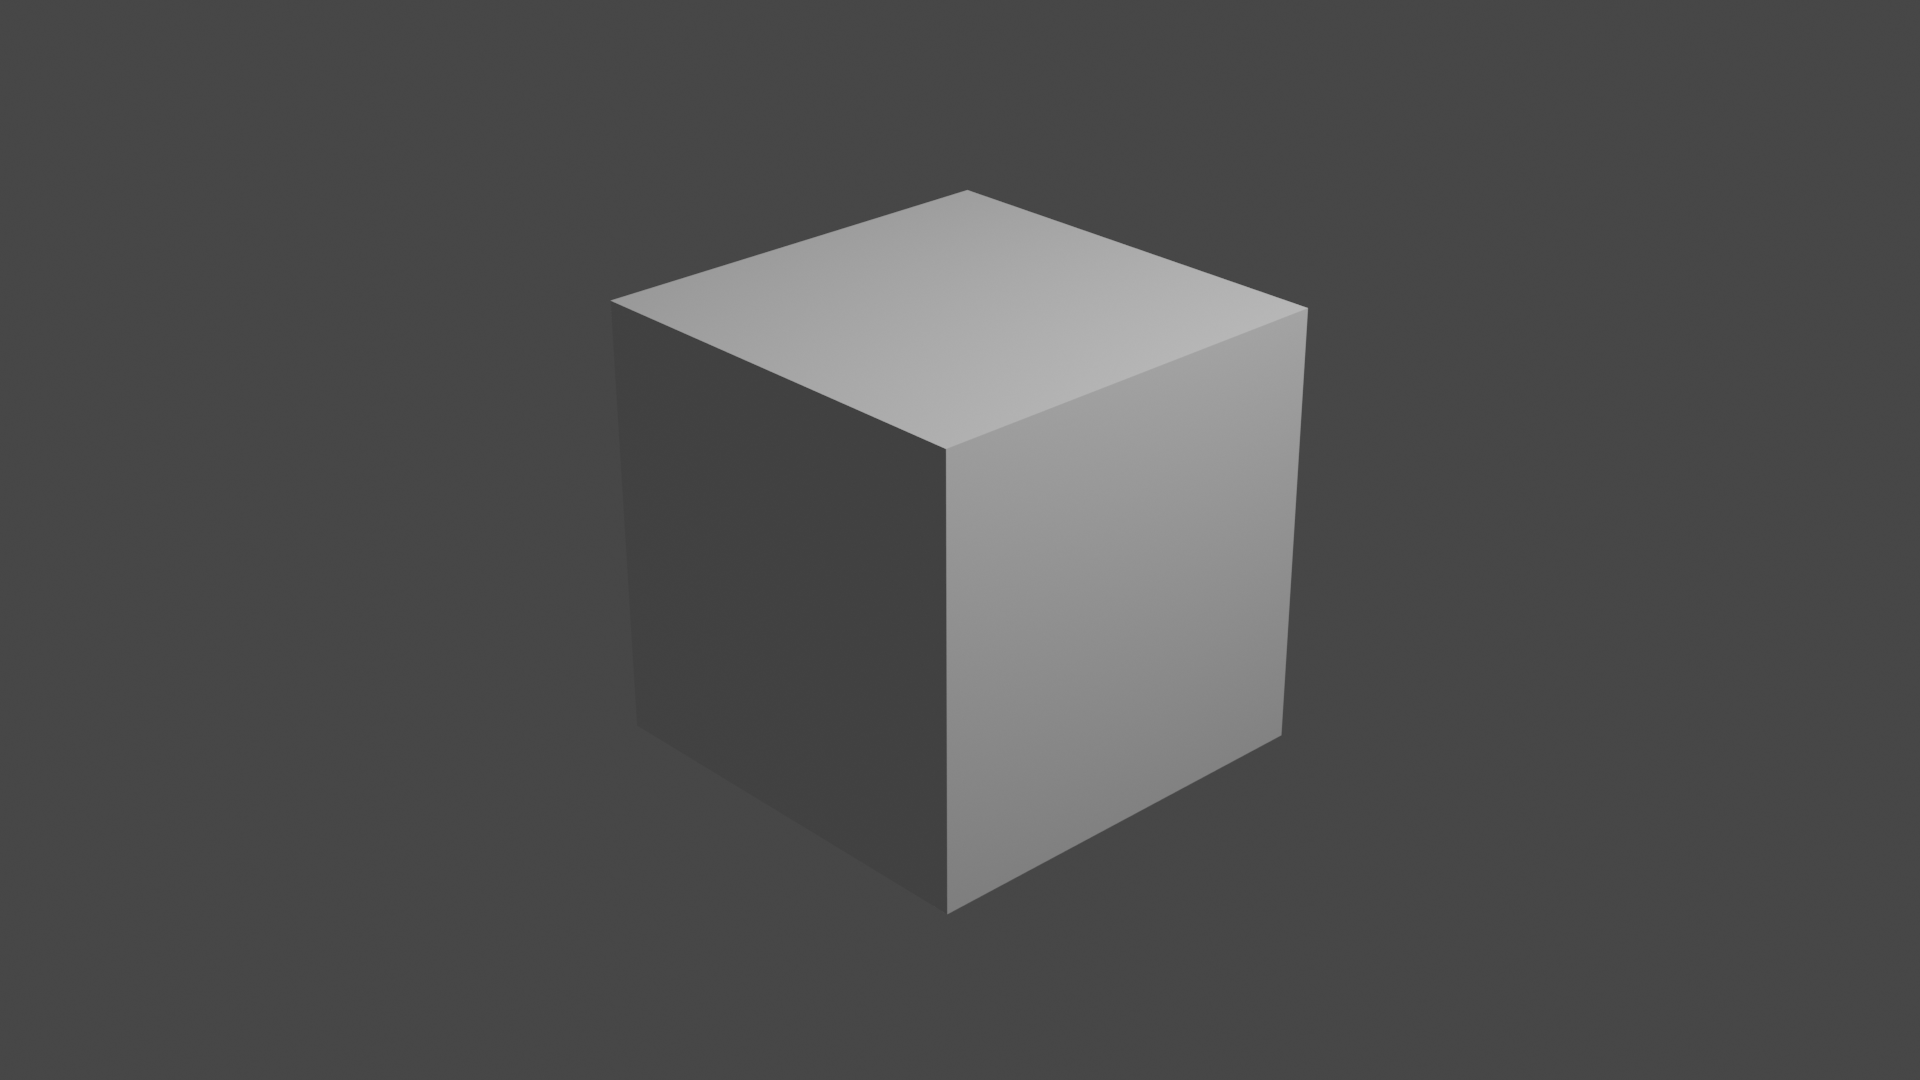
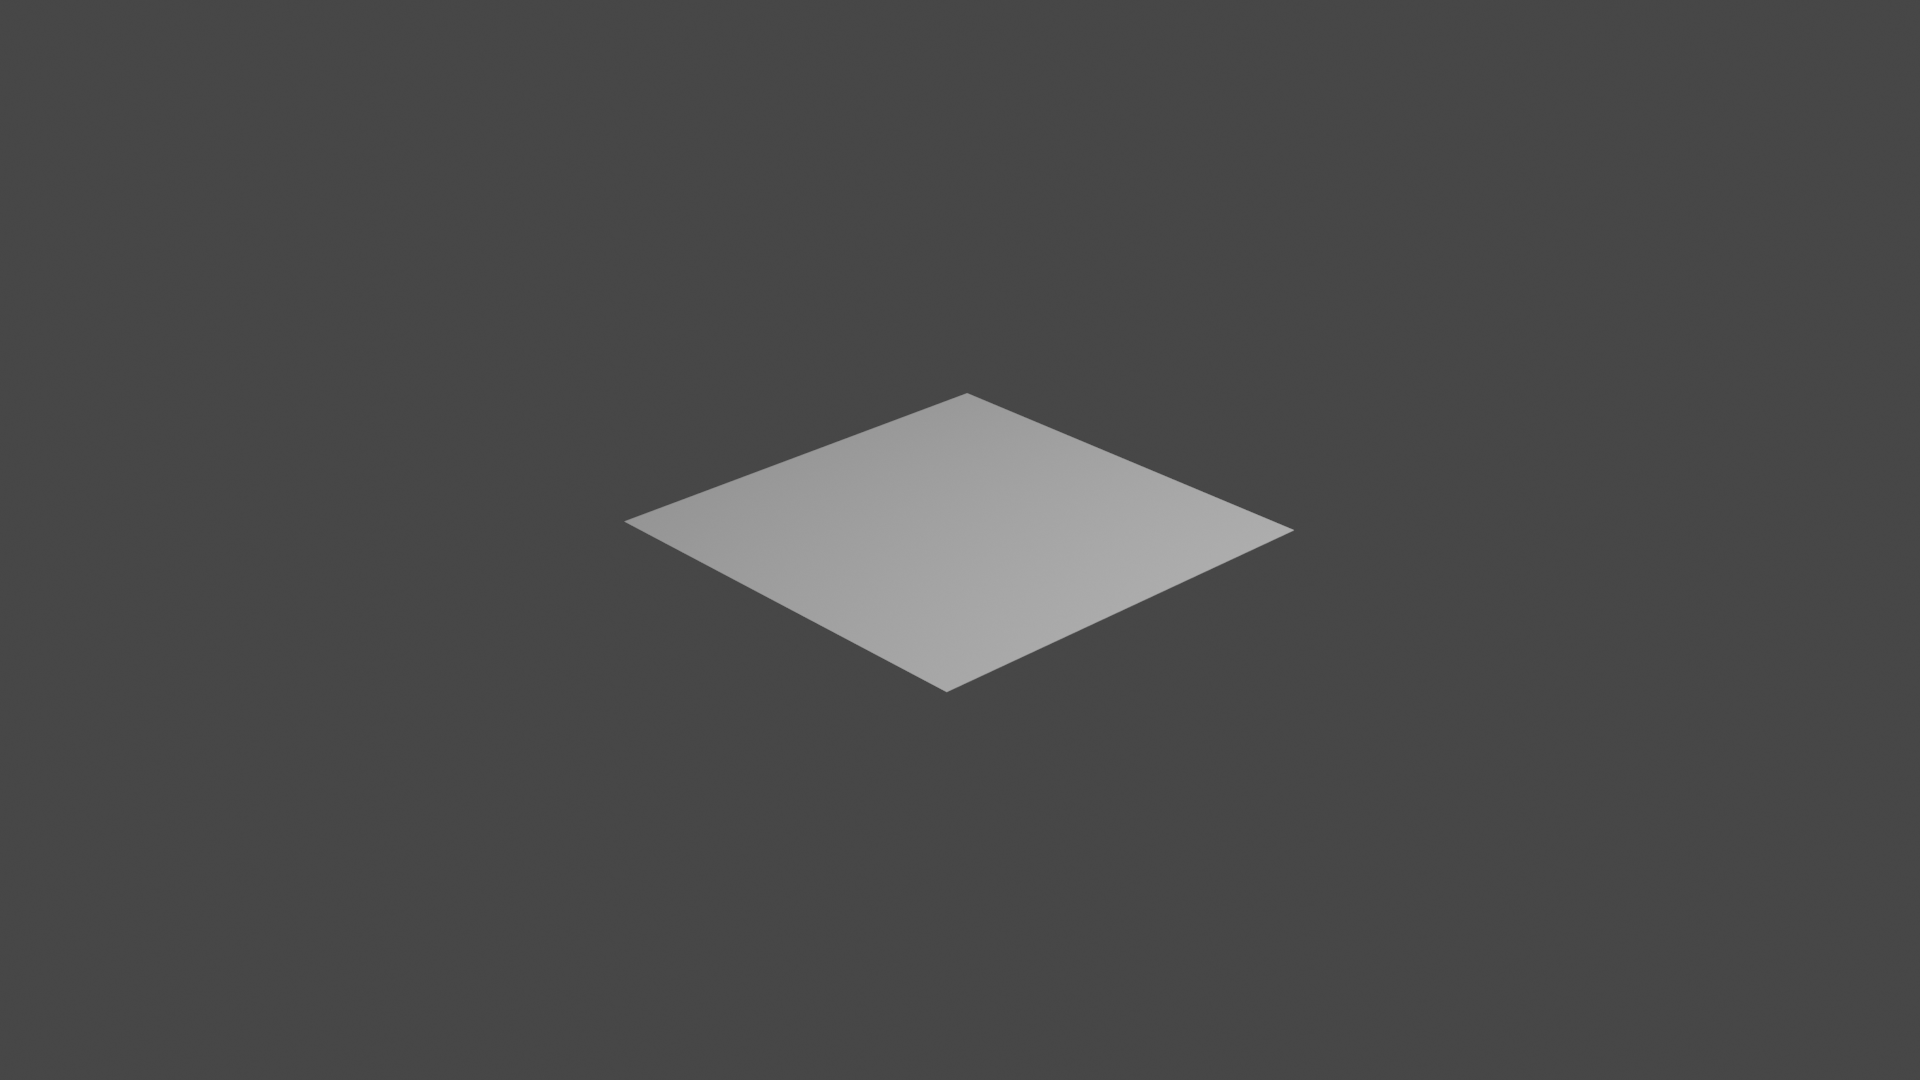
backup

Changed region(s): [[0.3125, 0.1833, 0.6875, 0.8556]]

diff --git a/bl_test/object_to_screen_contour.py b/bl_test/object_to_screen_contour.py
@@ -1,4 +1,14 @@
+import sys
+
+sys.path.append(
+    "C:\\Users\\Narinder\\AppData\\Roaming\\Python\\Python39\\site-packages\\")
+
+sys.path.append(
+    "C:\\Users\\Narinder\\AppData\\local\\programs\\python\\python39\\lib\\site-packages\\")
+
 import bpy
+import os
+import cv2
 import bmesh
 from typing import List, Union, Tuple
 
@@ -46,31 +56,31 @@ def add_evaled_mesh(bm, dg: bpy.types.Depsgraph, obj: bpy.types.Object, to_world
     object_eval.to_mesh_clear()
     return None
 
-def tocam(scene, obs):
+def project_mesh_on_camera(obj):
     cam = scene.camera
     cam_vec = cam.matrix_world.to_3x3() @ Vector((0, 0, -1))
+
     R = cam_vec.to_track_quat('-Z', 'Y').to_matrix().to_4x4()
 
-    s = Vector((1, (scene.render.resolution_y / scene.render.resolution_x), 1, 1))
-    S = Matrix.Diagonal(s)
+    S = Matrix.Diagonal(
+        Vector((1, (scene.render.resolution_y / scene.render.resolution_x), 1, 1)))
 
     T = Matrix.Translation((-0.5, -0.5, 0))
 
-    for ob in obs:
-        ob.data.transform(ob.matrix_world)
-        ob.matrix_world = Matrix()
-        for v in ob.data.vertices:
-            vec = w2cv(scene, cam, v.co)
-            v.co = vec.x, vec.y, 0
+    obj.data.transform(obj.matrix_world)
+    obj.matrix_world = Matrix()
+    for v in obj.data.vertices:
+        vec = w2cv(scene, cam, v.co)
+        v.co = vec.x, vec.y, 0
 
-        ob.data.transform(S @ T)
+    obj.data.transform(S @ T)
+    obj.matrix_world = R
 
-        ob.matrix_world = R
-        angle_x = cam.data.angle_x
-        x = (0.5 / tan(angle_x / 2)) * cam_vec.normalized()
-        ob.matrix_world.translation = cam.matrix_world.translation + x
+    angle_x = cam.data.angle_x
+    x = (0.5 / tan(angle_x / 2)) * cam_vec.normalized()
+    obj.matrix_world.translation = cam.matrix_world.translation + x
 
-def drawMesh(face_sets, context) :
+def drawMesh(face_sets) :
     cam = context.scene.camera
     cam_vec = cam.matrix_world.to_3x3() @ Vector((0, 0, -1))
     R = cam_vec.to_track_quat('-Z', 'Y').to_matrix().to_4x4()
@@ -98,8 +108,6 @@ def drawMesh(face_sets, context) :
     x = (0.5 / tan(angle_x / 2)) * cam_vec.normalized()
     obj.matrix_world.translation = cam.matrix_world.translation + x
 
-    new_collection = bpy.data.collections.new('coll')
-    bpy.context.scene.collection.children.link(new_collection)
     new_collection.objects.link(obj)
 
 def drawPoly(merged) :
@@ -131,57 +139,86 @@ def drawPoly(merged) :
 
     new_collection.objects.link(obj)
 
-def get_flattened_faces(context, obj) -> List[List[Vector]]:
-    dg = context.evaluated_depsgraph_get()
-    bm = bmesh.new()
+    return obj
 
-    add_evaled_mesh(bm, dg, obj, True)
+def get_face_sets(obj) -> List[List[Vector]]:
+    dg = context.evaluated_depsgraph_get()
+    bmesh_ = bmesh.new()
+
+    add_evaled_mesh(bmesh_, dg, obj, True)
 
     faces = []
-    for face in bm.faces:
+    for face in bmesh_.faces:
         face_points = [obj.matrix_world.inverted() @ vert.co for vert in face.verts]
         face_points = [point.to_2d() for point in face_points]
         faces.append(face_points)
-    bm.free()
+    bmesh_.free()
 
     return faces
-    
-def execute(context: bpy.types.Context): 
-    valid_target_types = ["MESH","SURFACE","CURVE","META","FONT"]
-    targets = [o for o in context.selected_objects if o.type in valid_target_types]
+
+
+def duplicate(obj, data=True, actions=True, collection=None):
+    obj_copy = obj.copy()
+    if data:
+        obj_copy.data = obj_copy.data.copy()
+    if actions and obj_copy.animation_data:
+        obj_copy.animation_data.action = obj_copy.animation_data.action.copy()
+    collection.objects.link(obj_copy)
+    return obj_copy
+
+def renderImage(file):
+    path = os.path.join(os.getcwd(), (file % count))
+    scene = bpy.data.scenes[0]
+    render = scene.render
+    render.filepath = path
+    render.image_settings.file_format = "PNG"
+    render.image_settings.compression = 15
+    print("Rendering image:", file)
+    print("Render Engine:", render.engine)
+    bpy.ops.render.render(write_still=True)
+
+def run(): 
+    file = 'realistic%d.png'
+    renderImage(file)
+
+    types = ["MESH","SURFACE"]
+    targets = [o for o in context.selected_objects if o.type in types]
 
     if not isinstance(targets, list):
         targets = [targets]
 
     if not targets:
-        print("No valid targets selected")
+        print("Select mesh or surface")
         return
 
-    bpy.ops.object.duplicate()
-    print(bpy.context.active_object)
+    obj = targets[0]
+    obj.select_set(False)
+    obj_copy = duplicate(obj=obj, data=True, actions=True, collection=new_collection)
+    obj_copy.select_set(True)
 
-    tocam(context.scene, context.selected_objects)
+    project_mesh_on_camera(obj_copy)
 
-    for obj in targets:
-        face_sets = [get_flattened_faces(context, obj)]
-        poly_sets = [faces_to_polygons(face_set) for face_set in face_sets]
+    face_sets = [get_face_sets(obj_copy)]
+    poly_sets = [faces_to_polygons(face_set) for face_set in face_sets]
 
-        with ThreadPoolExecutor() as executor:
-            buffer = 0.00001
-            merged_sets = executor.map(poly_union, poly_sets, repeat(buffer))
+    with ThreadPoolExecutor() as executor:
+        buffer = 0.00001
+        merged_sets = executor.map(poly_union, poly_sets, repeat(buffer))
 
-        merged = list(chain.from_iterable(merged_sets))
+    merged = list(chain.from_iterable(merged_sets))
 
-        drawPoly(merged)
+    objs = bpy.data.objects
+    objs.remove(obj_copy, do_unlink=True)
+
+    obj_outline = drawPoly(merged)
 
 context = bpy.context
 scene = context.scene
 
-new_collection = bpy.data.collections.new('coll')
+count = 0
+
+new_collection = bpy.data.collections.new('temp_Collection')
 bpy.context.scene.collection.children.link(new_collection)
 
-new_collection2 = bpy.data.collections.new('coll2')
-bpy.context.scene.collection.children.link(new_collection2)
-
-execute(context)
+run()
 print("Finished")
